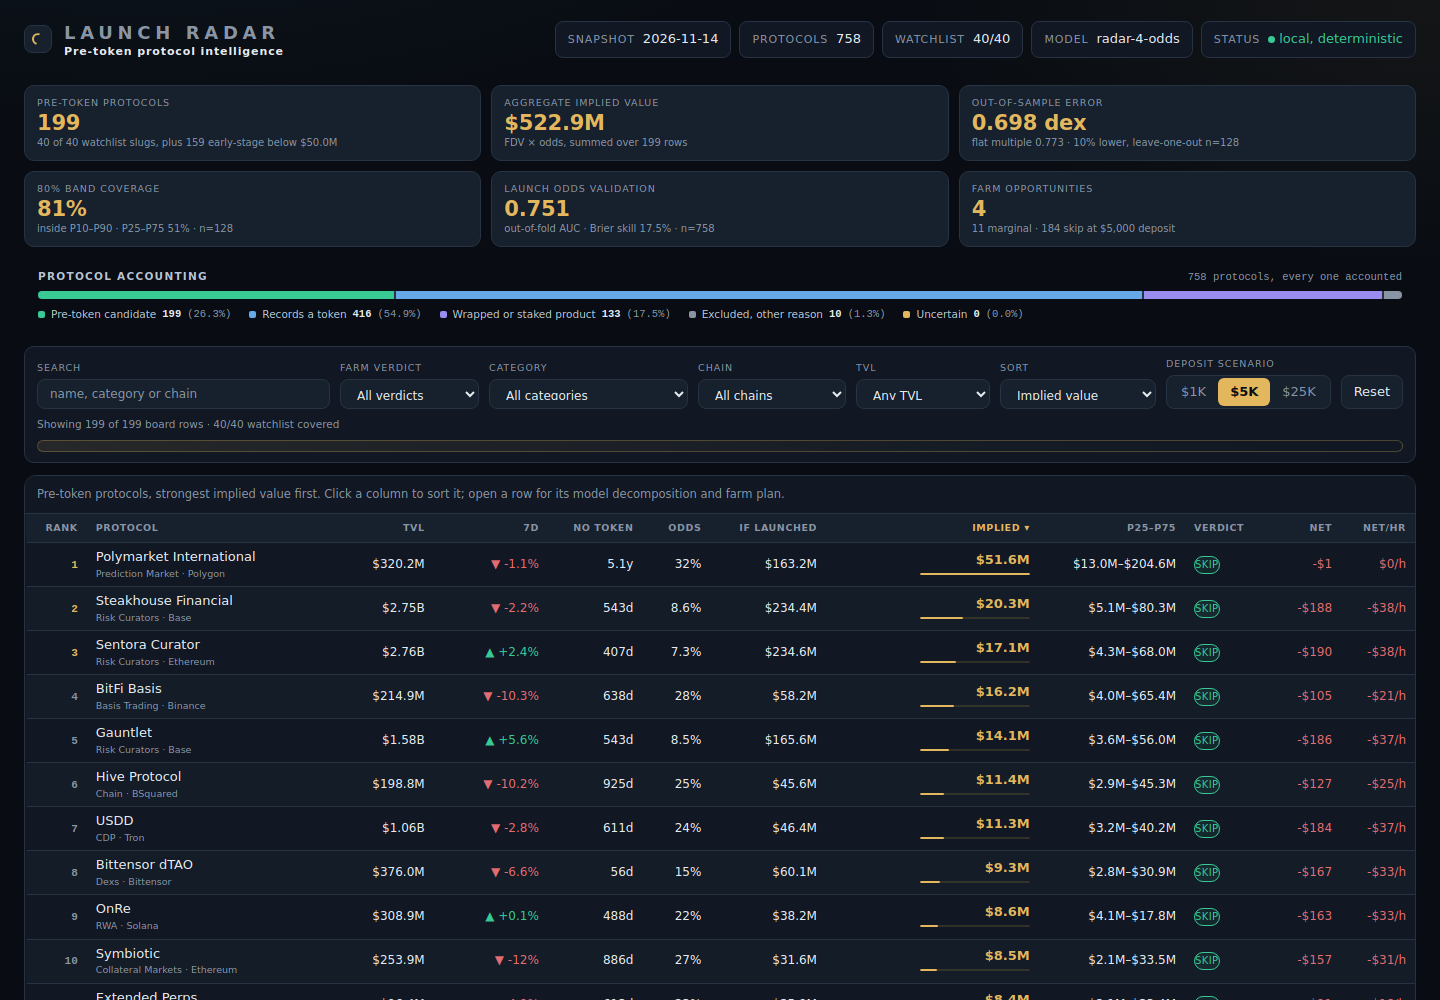
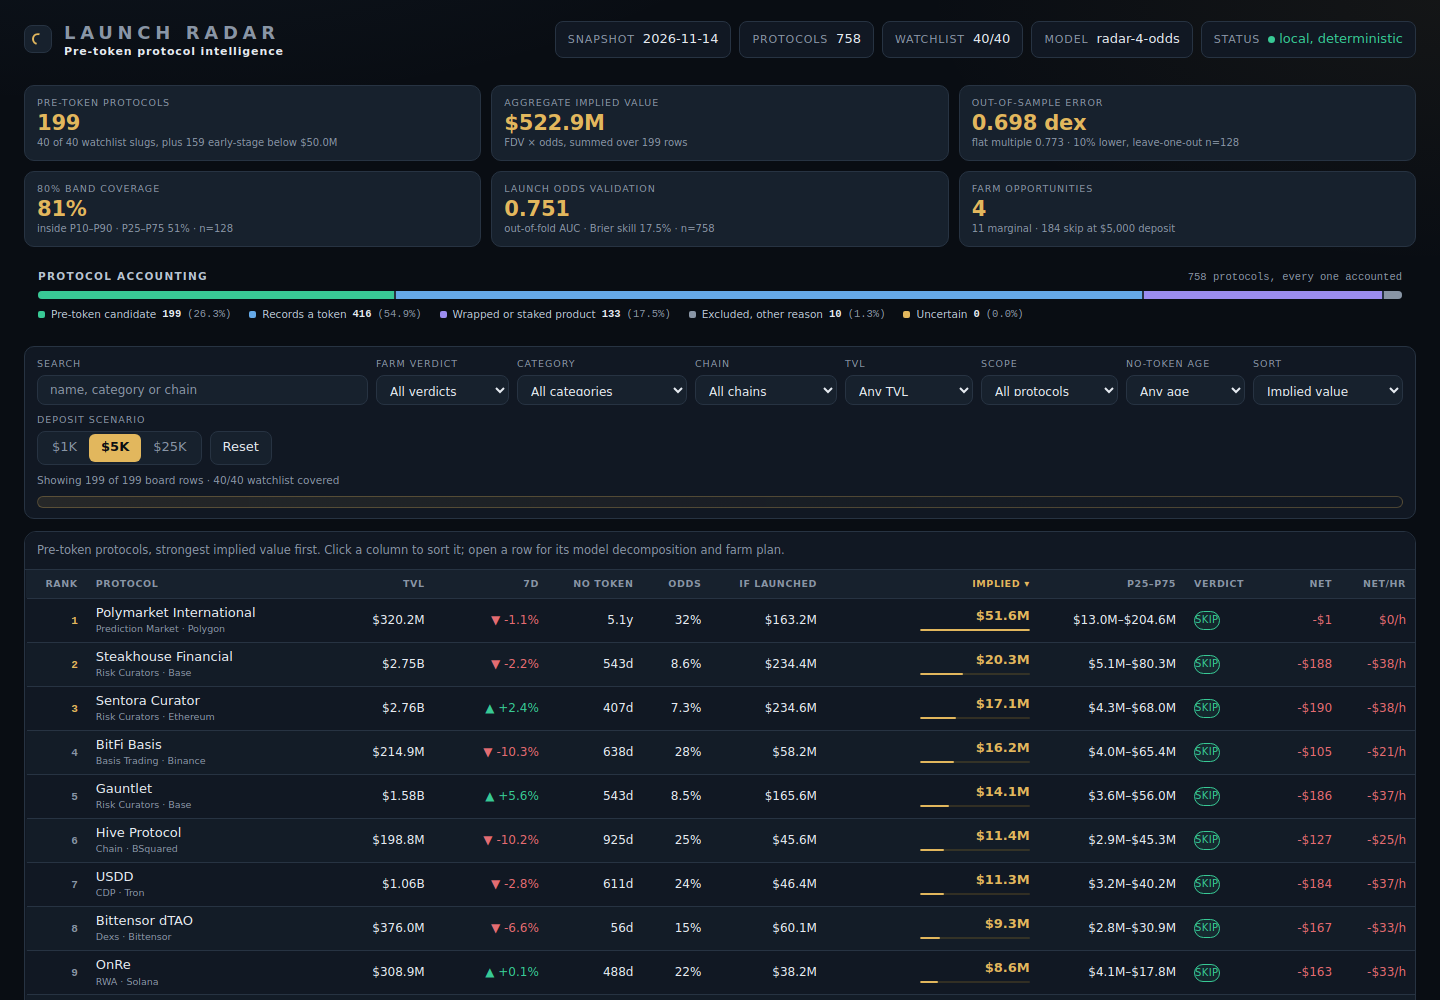
v8: watchlist, early-stage and no-token-age filters on the console
The master prompt lists these as controls the board must carry; scope and
age band are pure derivations of fields already on every row, so the ranking outlook
model and board bytes do not move.

diff --git a/dashboard/app.js b/dashboard/app.js
@@ -91,6 +91,8 @@
     category: '',
     chain: '',
     tvlBand: '',
+    scope: '',
+    ageBand: '',
     sortKey: 'implied',
     sortDir: 'desc',
     depositIdx: 1,
@@ -99,6 +101,11 @@
   };
 
   var DEPOSITS = [1000, 5000, 25000];
+
+  function ageLabel(band) {
+    var map = { '0-365': 'under 1 yr', '365-1095': '1\u20133 yrs', '1095-99999': 'over 3 yrs' };
+    return map[band] || band;
+  }
 
   /** One deposit scenario re-derived at the current farmer share, from the build's own scenario row. */
   function farmAt(row, idx) {
@@ -269,8 +276,18 @@
     return tvl >= lo && tvl < hi;
   }
 
+  function ageMatch(days) {
+    if (!state.ageBand) return true;
+    var parts = state.ageBand.split('-');
+    var d = Number(days);
+    return d >= Number(parts[0]) && d < Number(parts[1]);
+  }
+
   function rowMatches(row) {
     if (state.verdict && farmAt(row, state.depositIdx).verdict !== state.verdict) return false;
+    if (state.scope === 'watch' && !row.watchlist) return false;
+    if (state.scope === 'early' && row.watchlist) return false;
+    if (!ageMatch(row.age_days)) return false;
     if (state.category && row.category !== state.category) return false;
     if (state.chain && (row.chains || []).indexOf(state.chain) < 0) return false;
     if (!tvlMatch(row.tvl_usd)) return false;
@@ -325,7 +342,7 @@
 
     var matched = radar.rows.filter(rowMatches);
     view = sortView(matched);
-    state.filtered = !!(state.verdict || state.category || state.chain || state.tvlBand || state.query.trim());
+    state.filtered = !!(state.verdict || state.category || state.chain || state.tvlBand || state.scope || state.ageBand || state.query.trim());
     hideEmpty();
 
     if (view.length === 0) {
@@ -386,6 +403,8 @@
     if (state.category) parts.push(state.category);
     if (state.chain) parts.push(state.chain);
     if (state.tvlBand) parts.push('TVL band ' + state.tvlBand);
+    if (state.scope) parts.push(state.scope === 'watch' ? 'watchlist only' : 'early stage only');
+    if (state.ageBand) parts.push('age ' + ageLabel(state.ageBand));
     if (state.query.trim()) parts.push('\u201c' + state.query.trim() + '\u201d');
     parts.push((radar.counts.watchlist_on_board || 0) + '/' + radar.watchlist_size + ' watchlist covered');
     n.textContent = parts.join(' \u00b7 ');
@@ -410,14 +429,18 @@
   function renderSegment(shown, implied) {
     var seg = document.getElementById('segment');
     if (!seg) return;
-    if (!state.verdict && !state.category && !state.chain && !state.tvlBand) {
+    if (!state.verdict && !state.category && !state.chain && !state.tvlBand && !state.scope && !state.ageBand) {
       seg.hidden = true;
       seg.textContent = '';
       return;
     }
     seg.hidden = false;
     seg.textContent = '';
-    seg.appendChild(el('span', { class: 'seg-chip', text: 'FILTERED: ' + (state.verdict || 'all verdicts') }));
+    var active = [];
+    if (state.verdict) active.push(state.verdict);
+    if (state.scope) active.push(state.scope === 'watch' ? 'watchlist' : 'early stage');
+    if (state.ageBand) active.push('age ' + ageLabel(state.ageBand));
+    seg.appendChild(el('span', { class: 'seg-chip', text: 'FILTERED: ' + (active.length ? active.join(' + ') : 'all verdicts') }));
     seg.appendChild(el('span', { class: 'seg-item' }, el('b', { text: String(shown) }), ' matching protocols'));
     seg.appendChild(el('span', { class: 'seg-item' }, el('b', { text: usd(implied) }), ' aggregate implied value'));
     seg.appendChild(el('span', { class: 'seg-item' }, el('b', { text: money(DEPOSITS[state.depositIdx]) }), ' deposit'));
@@ -821,6 +844,12 @@
     var band = document.getElementById('tvl-band');
     if (band) band.addEventListener('change', function () { state.tvlBand = band.value; renderBoard(); });
 
+    var scope = document.getElementById('scope');
+    if (scope) scope.addEventListener('change', function () { state.scope = scope.value; renderBoard(); });
+
+    var ageSel = document.getElementById('age-band');
+    if (ageSel) ageSel.addEventListener('change', function () { state.ageBand = ageSel.value; renderBoard(); });
+
     var sort = document.getElementById('sort');
     if (sort) sort.addEventListener('change', function () {
       state.sortKey = sort.value;
@@ -841,12 +870,14 @@
       state.category = '';
       state.chain = '';
       state.tvlBand = '';
+      state.scope = '';
+      state.ageBand = '';
       state.sortKey = 'implied';
       state.sortDir = 'desc';
       state.depositIdx = 1;
       state.share = K.farmer_share;
       if (q) q.value = '';
-      ['category', 'chain', 'verdict', 'tvl-band'].forEach(function (id) {
+      ['category', 'chain', 'verdict', 'tvl-band', 'scope', 'age-band'].forEach(function (id) {
         var s = document.getElementById(id);
         if (s) s.value = '';
       });

diff --git a/dashboard/styles.css b/dashboard/styles.css
@@ -27,9 +27,9 @@ body{background:radial-gradient(1200px 520px at 10% -10%, rgba(101, 169, 232, .0
 .kpi-value{font-size:21px;font-weight:600;color:var(--amber);font-variant-numeric:tabular-nums;letter-spacing:-0.01em;line-height:1.25}
 .kpi-note{font-size:10px;color:var(--text-weak);line-height:1.4}
 .console{background:var(--panel);border:1px solid var(--line);border-radius:10px;padding:10px 12px;margin-bottom:12px}
-.filters{display:flex;align-items:flex-end;gap:10px;flex-wrap:wrap}
+.filters{display:flex;align-items:flex-end;gap:8px;flex-wrap:wrap}
 .field{display:flex;flex-direction:column;gap:var(--sp-1)}
-.field-search{flex:1 1 240px}
+.field-search{flex:1 1 180px;min-width:170px}
 .field-reset{flex:none}
 .field-label{font-size:9.5px;text-transform:uppercase;letter-spacing:.1em;color:var(--text-weak)}
 input, select{background:var(--panel-2);border:1px solid var(--line);border-radius:var(--r-ctl);color:var(--text);font:inherit;padding:var(--sp-2) var(--sp-3);height:34px;min-width:0}
@@ -203,6 +203,7 @@ details summary::-webkit-details-marker{display:none}
 .acc-n{font-family:var(--mono);color:var(--text);font-weight:600}
 .acc-p{font-family:var(--mono)}
 .field input, .field select{height:30px;font-size:12px}
+.filters .field > select{padding-left:9px;padding-right:9px;max-width:170px}
 #board-table caption{padding:10px 12px;font-size:11.5px}
 #board-table tbody tr{background:transparent}
 .research .res-sub{margin:3px 0 8px}

diff --git a/dashboard/index.html b/dashboard/index.html
@@ -109,6 +109,23 @@
         </select>
       </div>
       <div class="field">
+        <label class="field-label" for="scope">Scope</label>
+        <select id="scope" aria-label="Filter by watchlist or early stage">
+          <option value="">All protocols</option>
+          <option value="watch">Watchlist only</option>
+          <option value="early">Early stage only</option>
+        </select>
+      </div>
+      <div class="field">
+        <label class="field-label" for="age-band">No-token age</label>
+        <select id="age-band" aria-label="Filter by time without a token">
+          <option value="">Any age</option>
+          <option value="0-365">Under 1 year</option>
+          <option value="365-1095">1 &ndash; 3 years</option>
+          <option value="1095-99999">Over 3 years</option>
+        </select>
+      </div>
+      <div class="field">
         <label class="field-label" for="sort">Sort</label>
         <select id="sort" aria-label="Sort the board">
           <option value="implied">Implied value</option>
